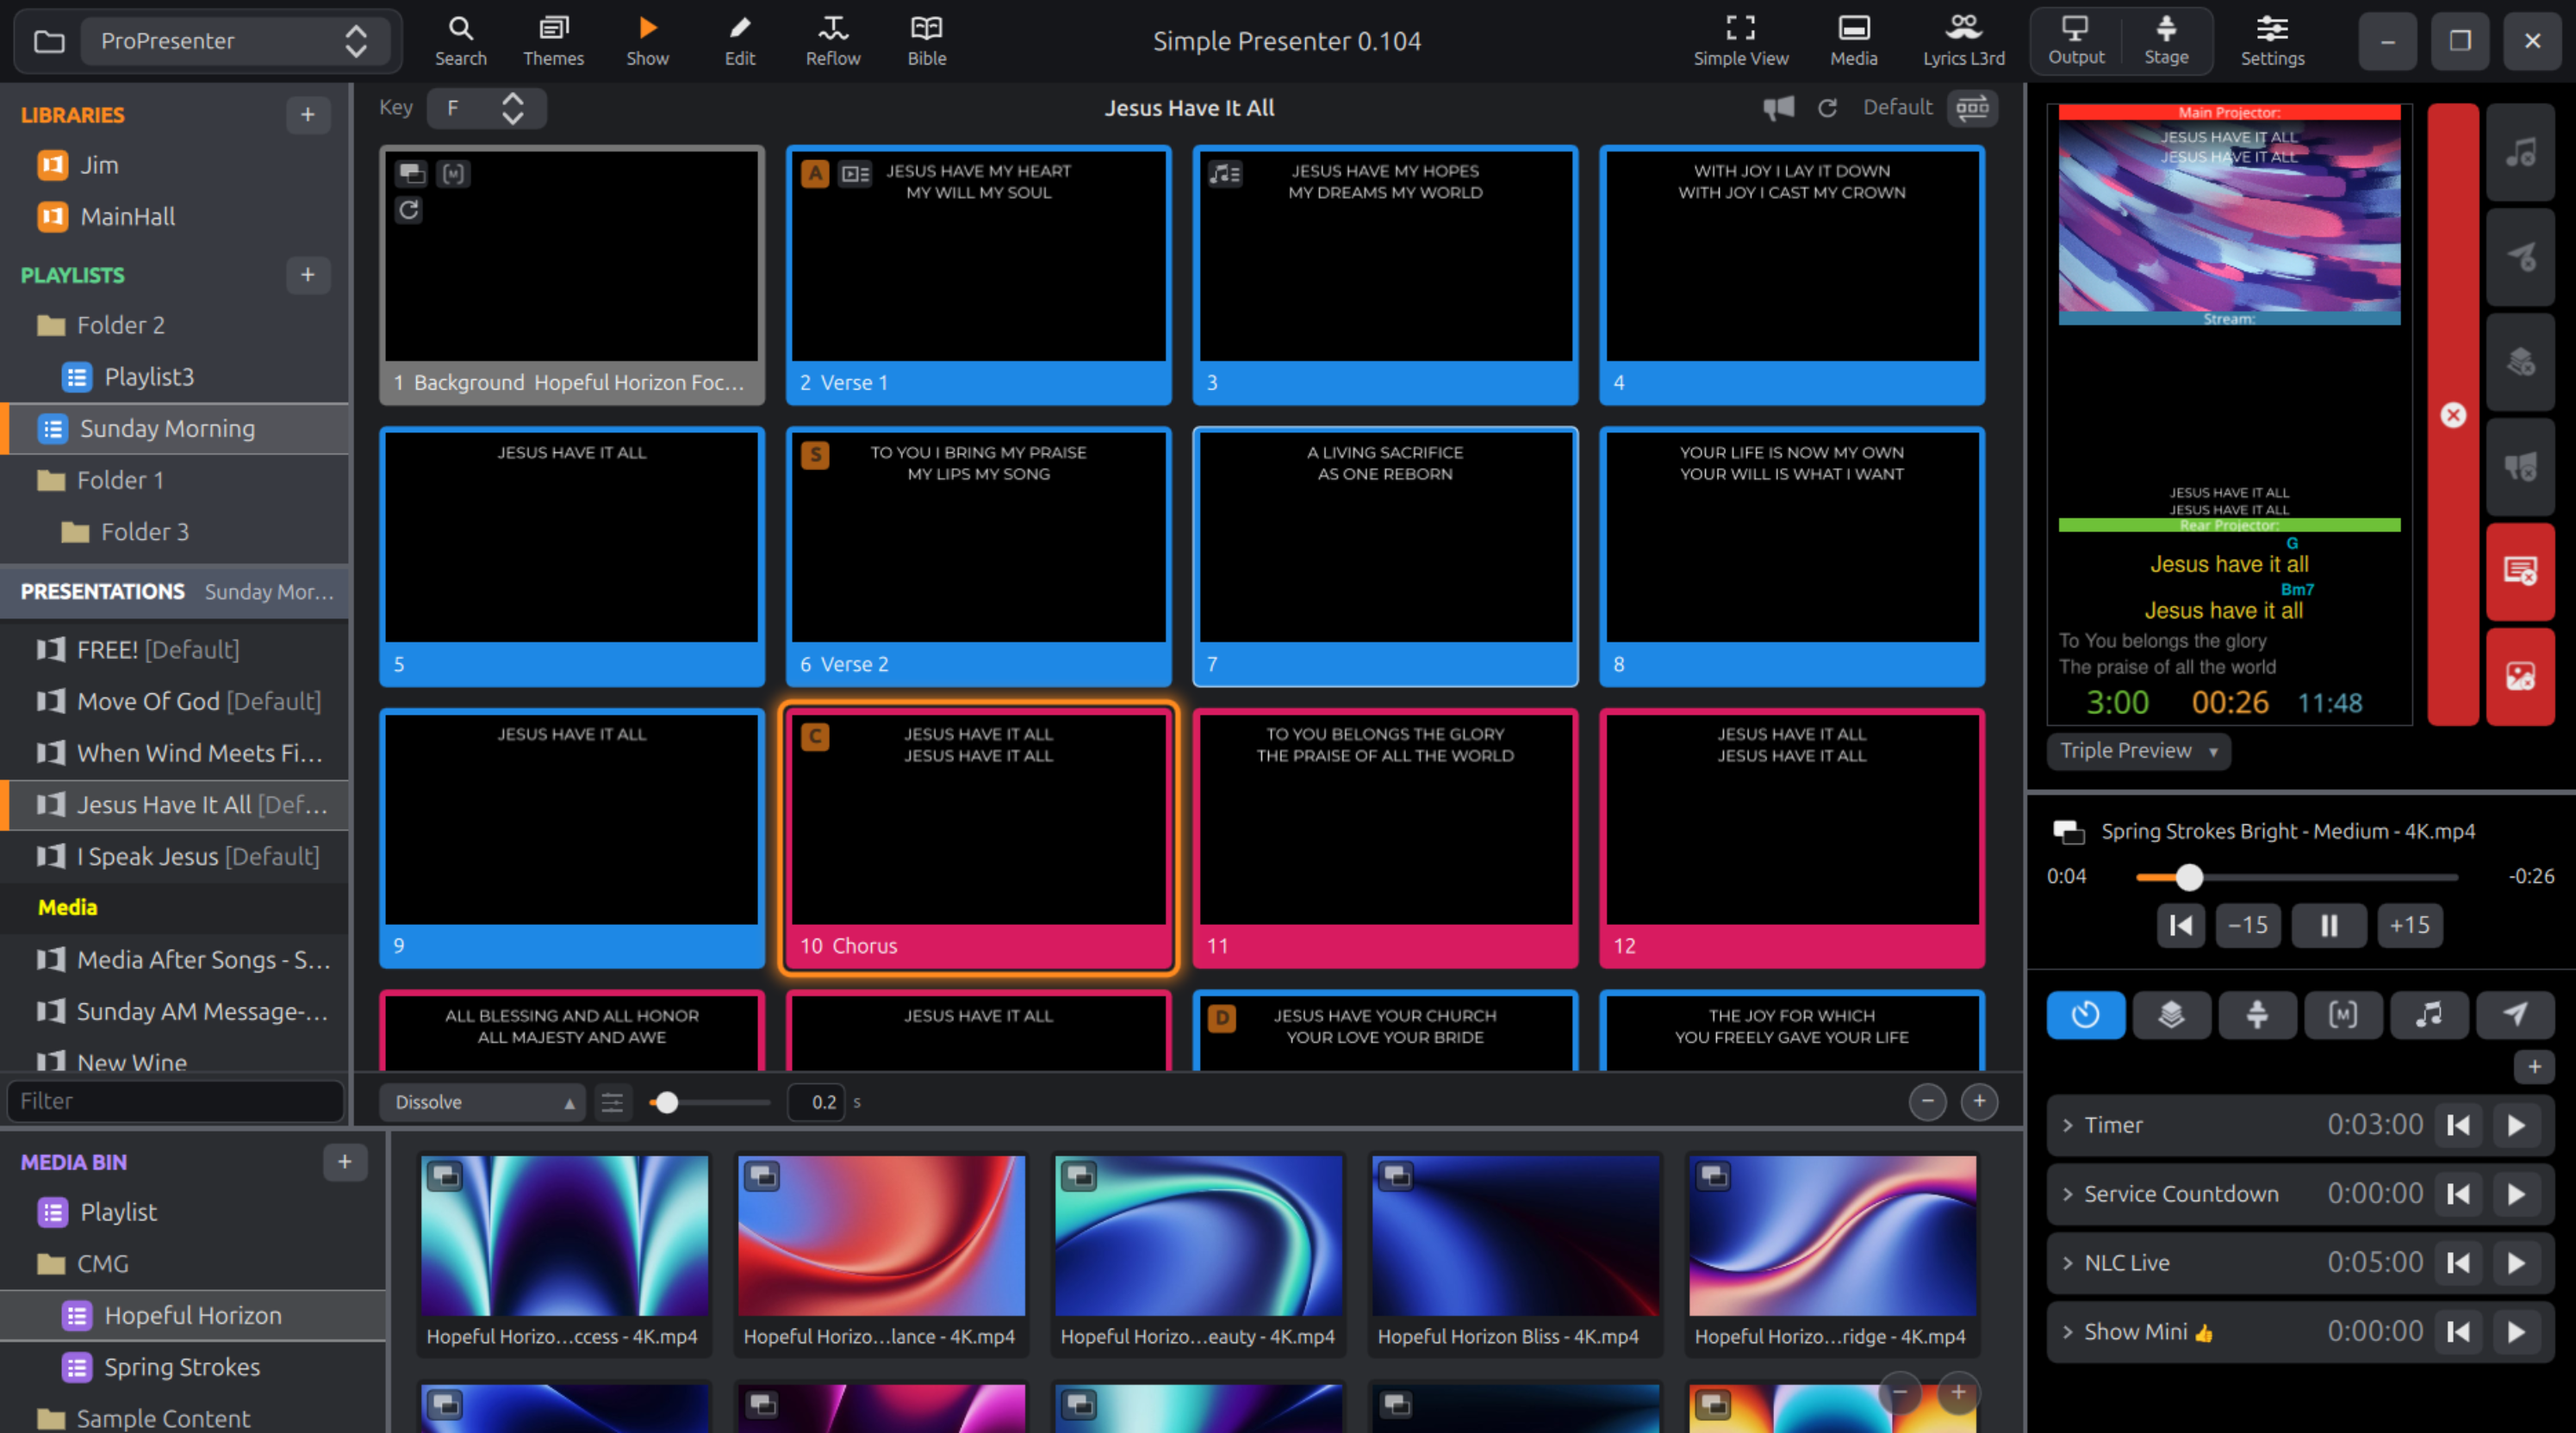
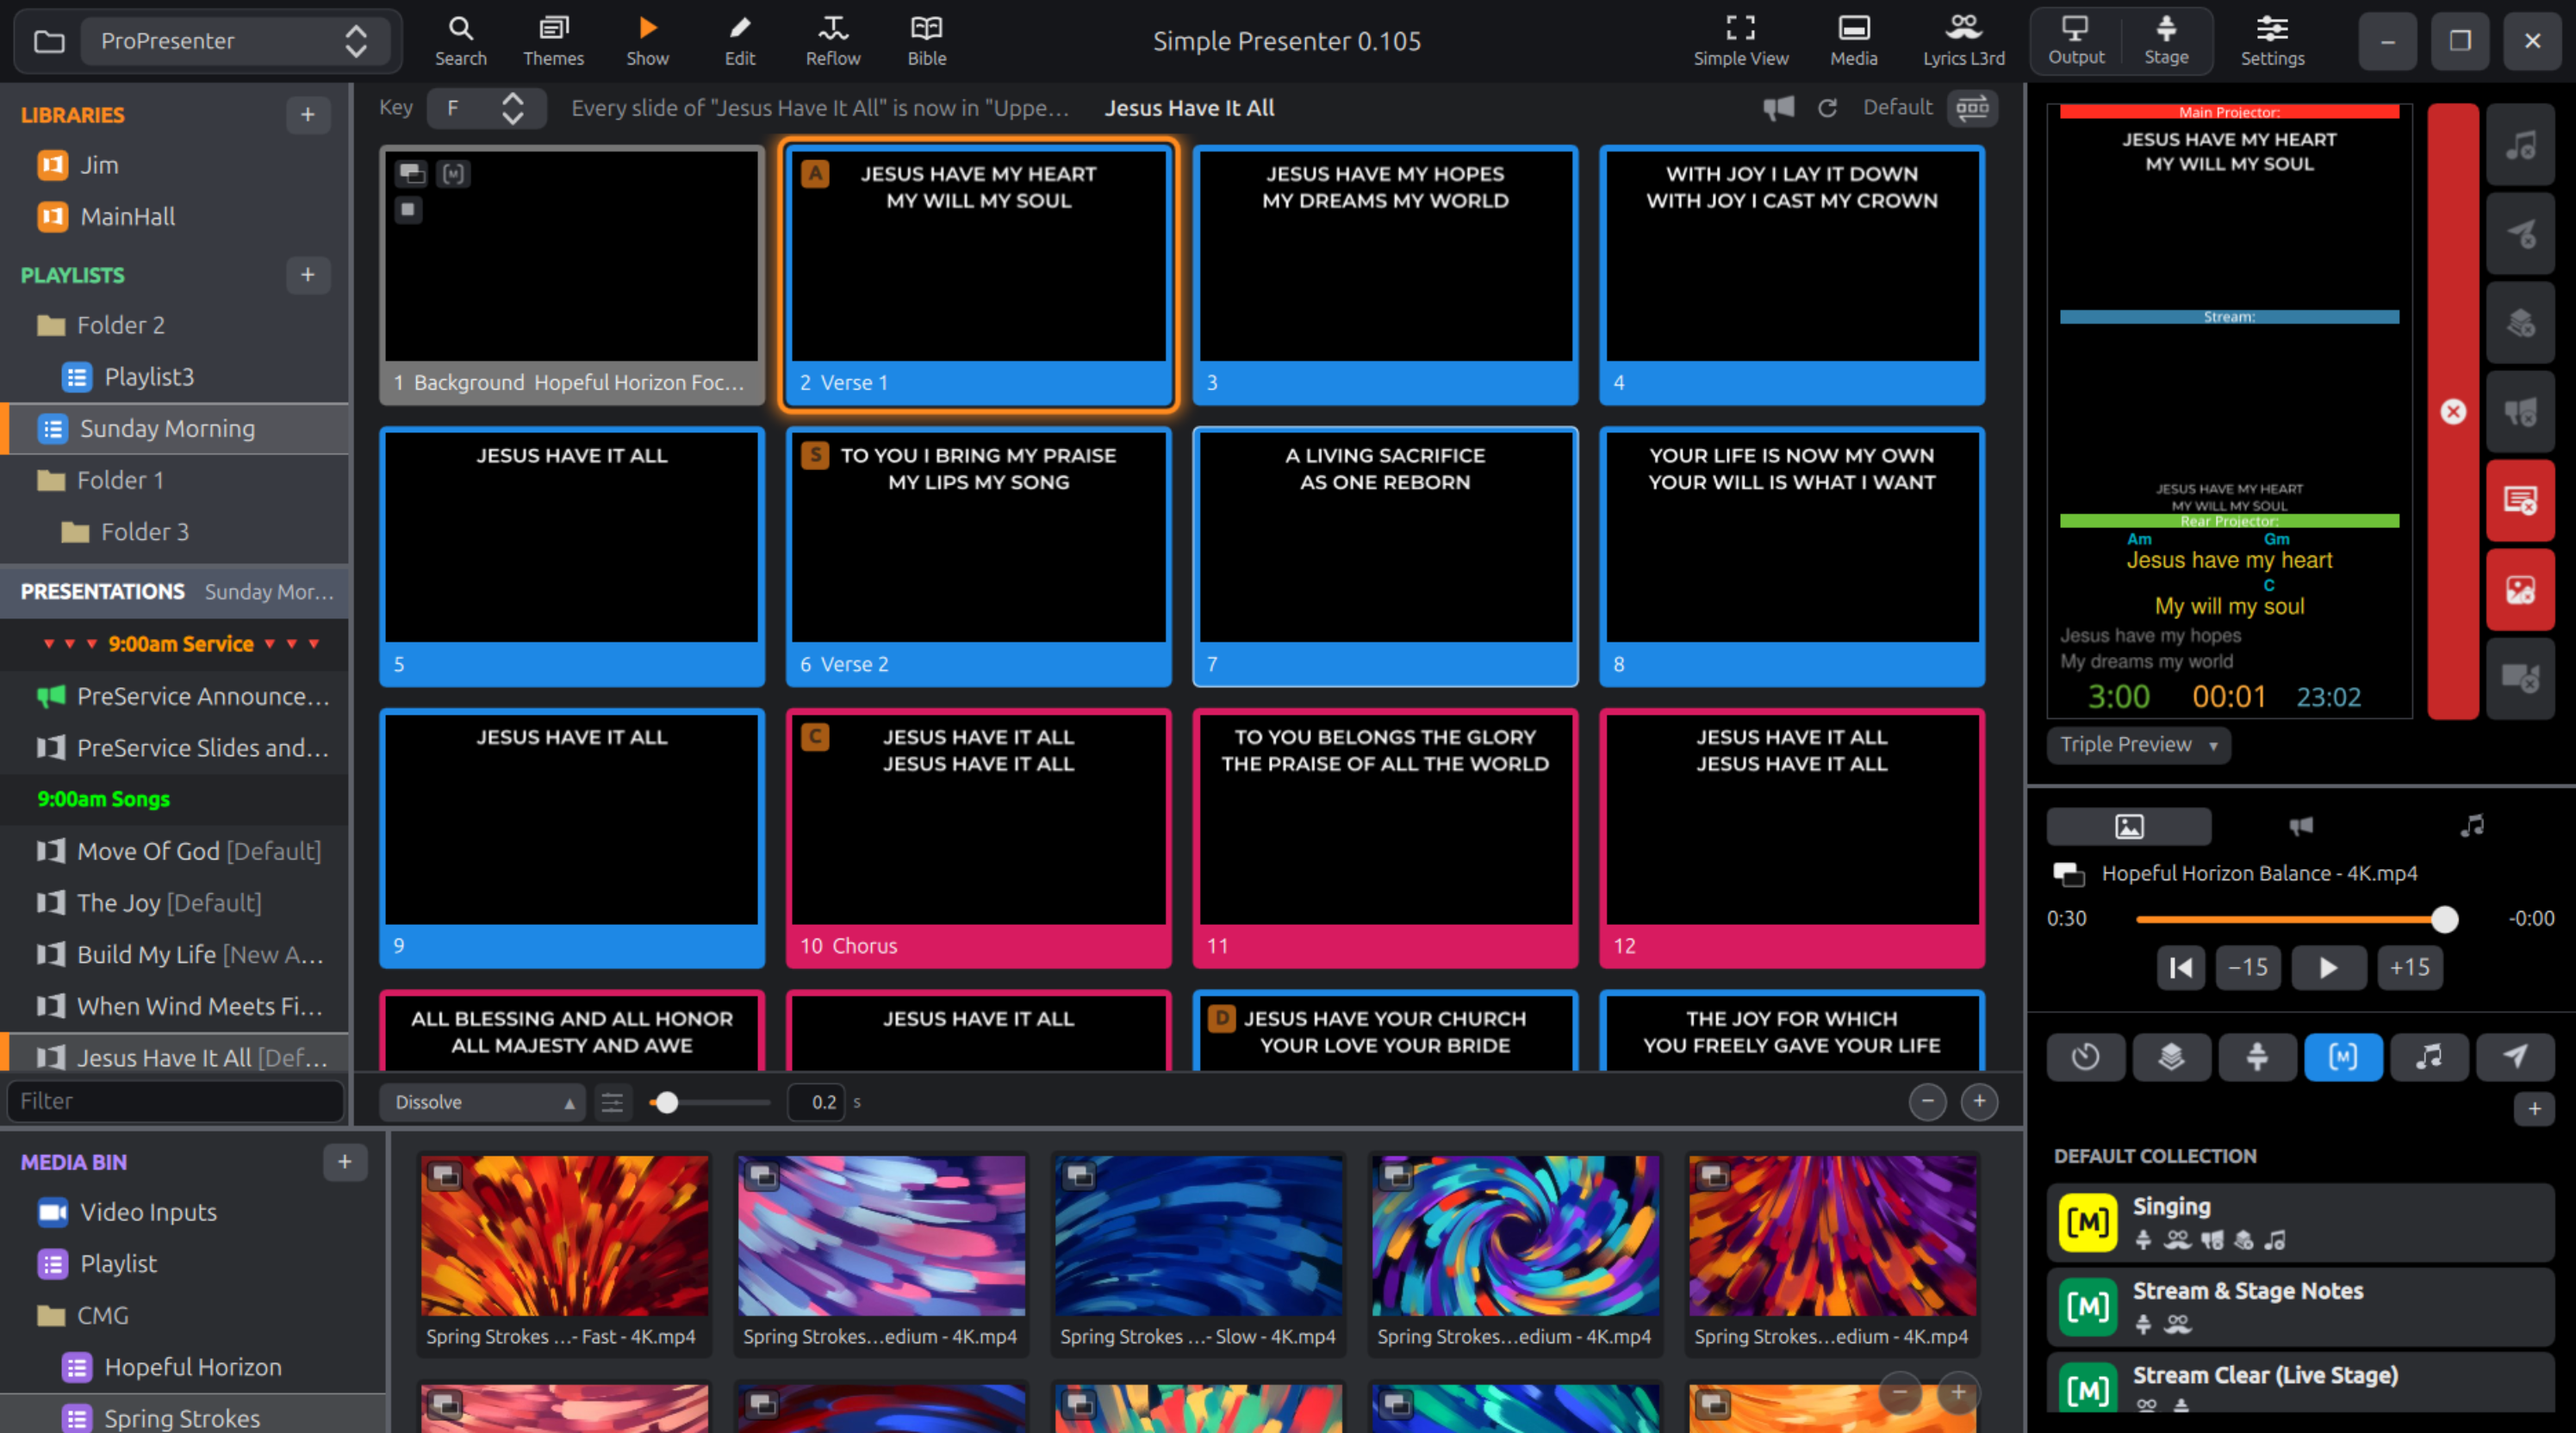
The README's screenshot taken again
The maintainer's own screenshot of the operator window as it is now,
with the tabs over the transport and the media bin's Video Inputs.
Its words for those who cannot see it say what is in it, and none of
the song's.

diff --git a/README.md b/README.md
@@ -12,7 +12,7 @@ files.** It can run:
 > **not a product for use.** Nobody supports it, it comes with no warranty, and it has nothing to do with Renewed
 > Vision. It changes the files it opens: give it a copy of your ProPresenter folder, never your only one.
 
-![The Simple Presenter operator window: a toolbar across the top, with the workspace picker and the Search, Themes, Show, Edit, Reflow and Bible buttons at its left and the buttons for Simple View, the media bin, the look that is live, the output and stage screens and the settings at its right; libraries and playlists at the top left, in their folders, with the selected playlist's presentations below them; in the middle a line with the key the chords are shown in, the name of the presentation, the megaphone that says whether it goes to the announcements, the Slide Show button and the arrangement, over a grid of a song's slides, framed in their group colours, some marked with the hotkey that goes to them or with icons for the media and the actions they bring, and the live one ringed in orange, with the transition and the size of the thumbnails in a bar under them and the media bin under that; and down the right the preview, here of a stage screen whose layout is three Screen Previews one over another (the main projector with its video, the stream with the words alone, and the rear projector with the words and their chords) over the stage's clocks, with the name of that screen under it; beside the preview two columns of clear buttons, the tall one of the Clear All group and the layers' pictures, those with something to clear in red; under it the transport for the video that is playing, and the show controls on their tab of timers](docs/screenshot.png)
+![The Simple Presenter operator window: a toolbar across the top, with the workspace picker and the Search, Themes, Show, Edit, Reflow and Bible buttons at its left and the buttons for Simple View, the media bin, the look that is live, the output and stage screens and the settings at its right; libraries and playlists at the top left, in their folders, with the selected playlist's presentations below them under its headers, one of them sent to the announcements and marked with a green megaphone; in the middle a line with the key the chords are shown in, a note of what was last done, the name of the presentation, the megaphone, the Slide Show button and the arrangement, over a grid of a song's slides, framed in their group colours, some marked with the hotkey that goes to them or with icons for the media and the actions they bring, and the live one ringed in orange, with the transition and the size of the thumbnails in a bar under them and the media bin under that, its Video Inputs first in its list; and down the right the preview, here of a stage screen whose layout is three Screen Previews one over another (the main projector, the stream and the rear projector with the chords) over the stage's clocks, with the name of that screen under it; beside the preview two columns of clear buttons, the tall one of the Clear All group and the layers' pictures, those with something to clear in red; under it the three tabs over the transport, the media's picked, and the transport for the video that is playing; and the show controls on their tab of macros, each macro with its coloured icon and small icons for its actions](docs/screenshot.png)
 
 Copy a whole ProPresenter workspace onto a Linux computer and it is all there, in a window
 that anyone who has used ProPresenter will know their way around: the libraries and
